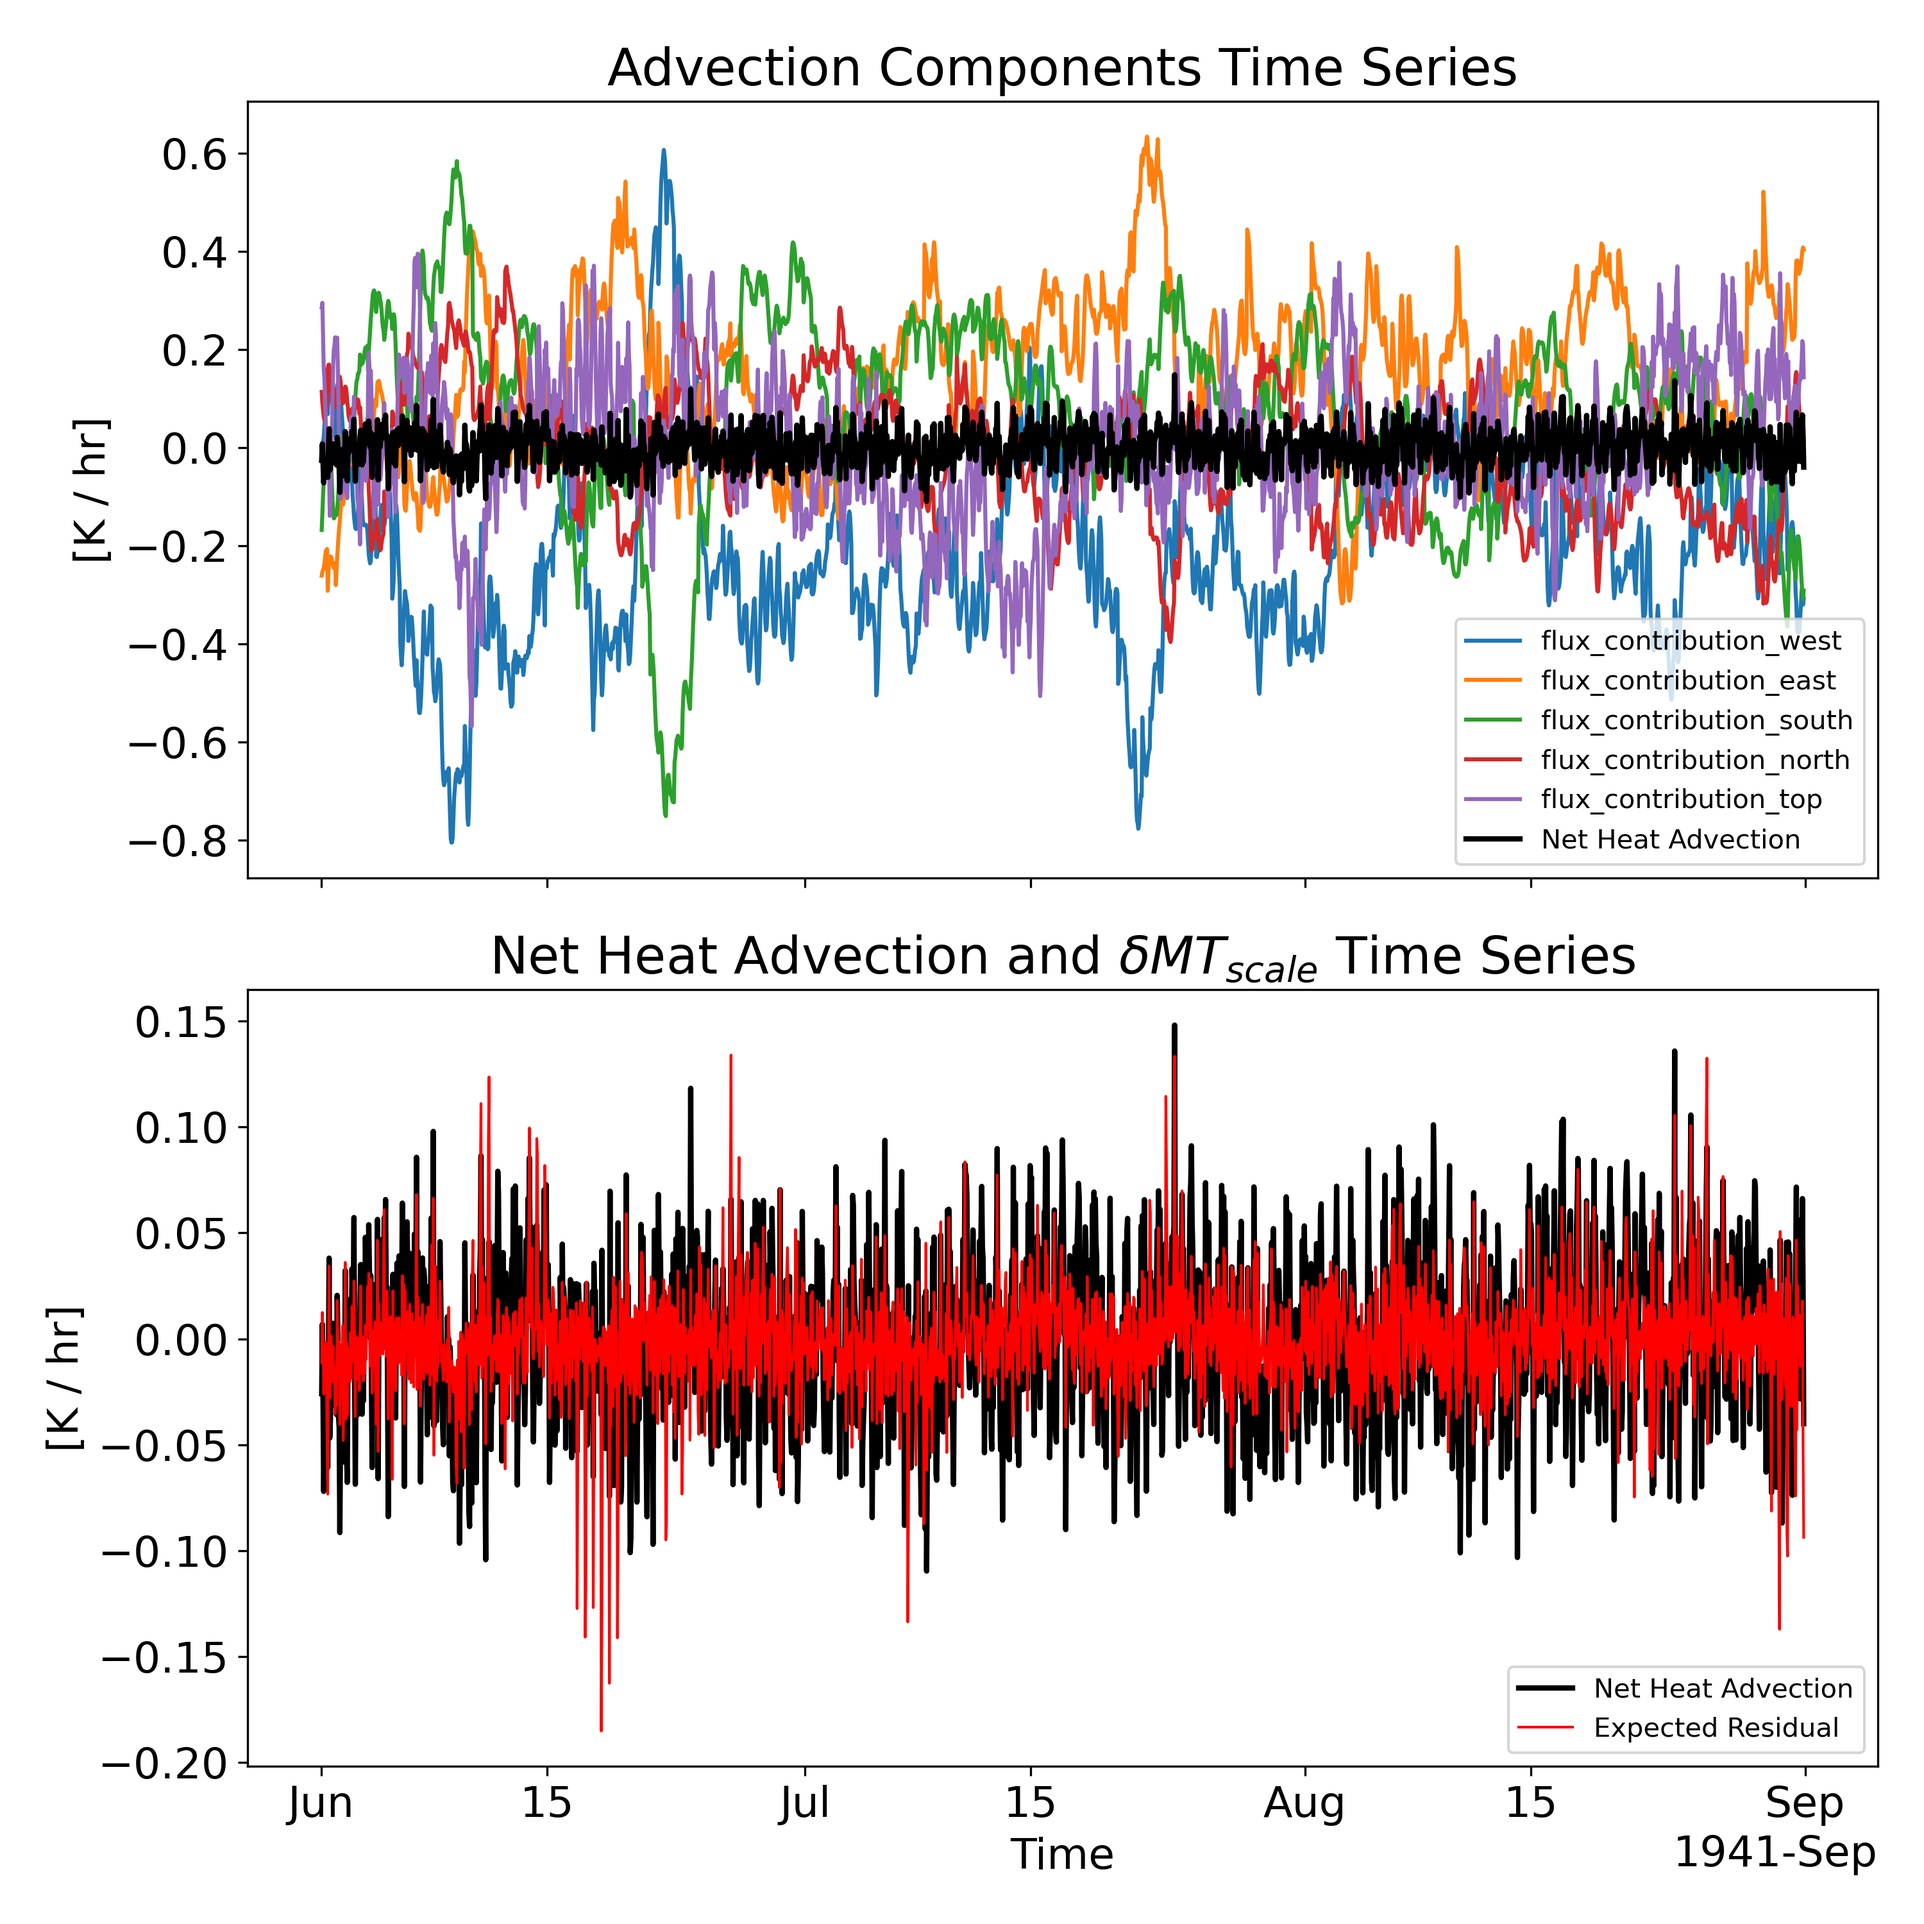
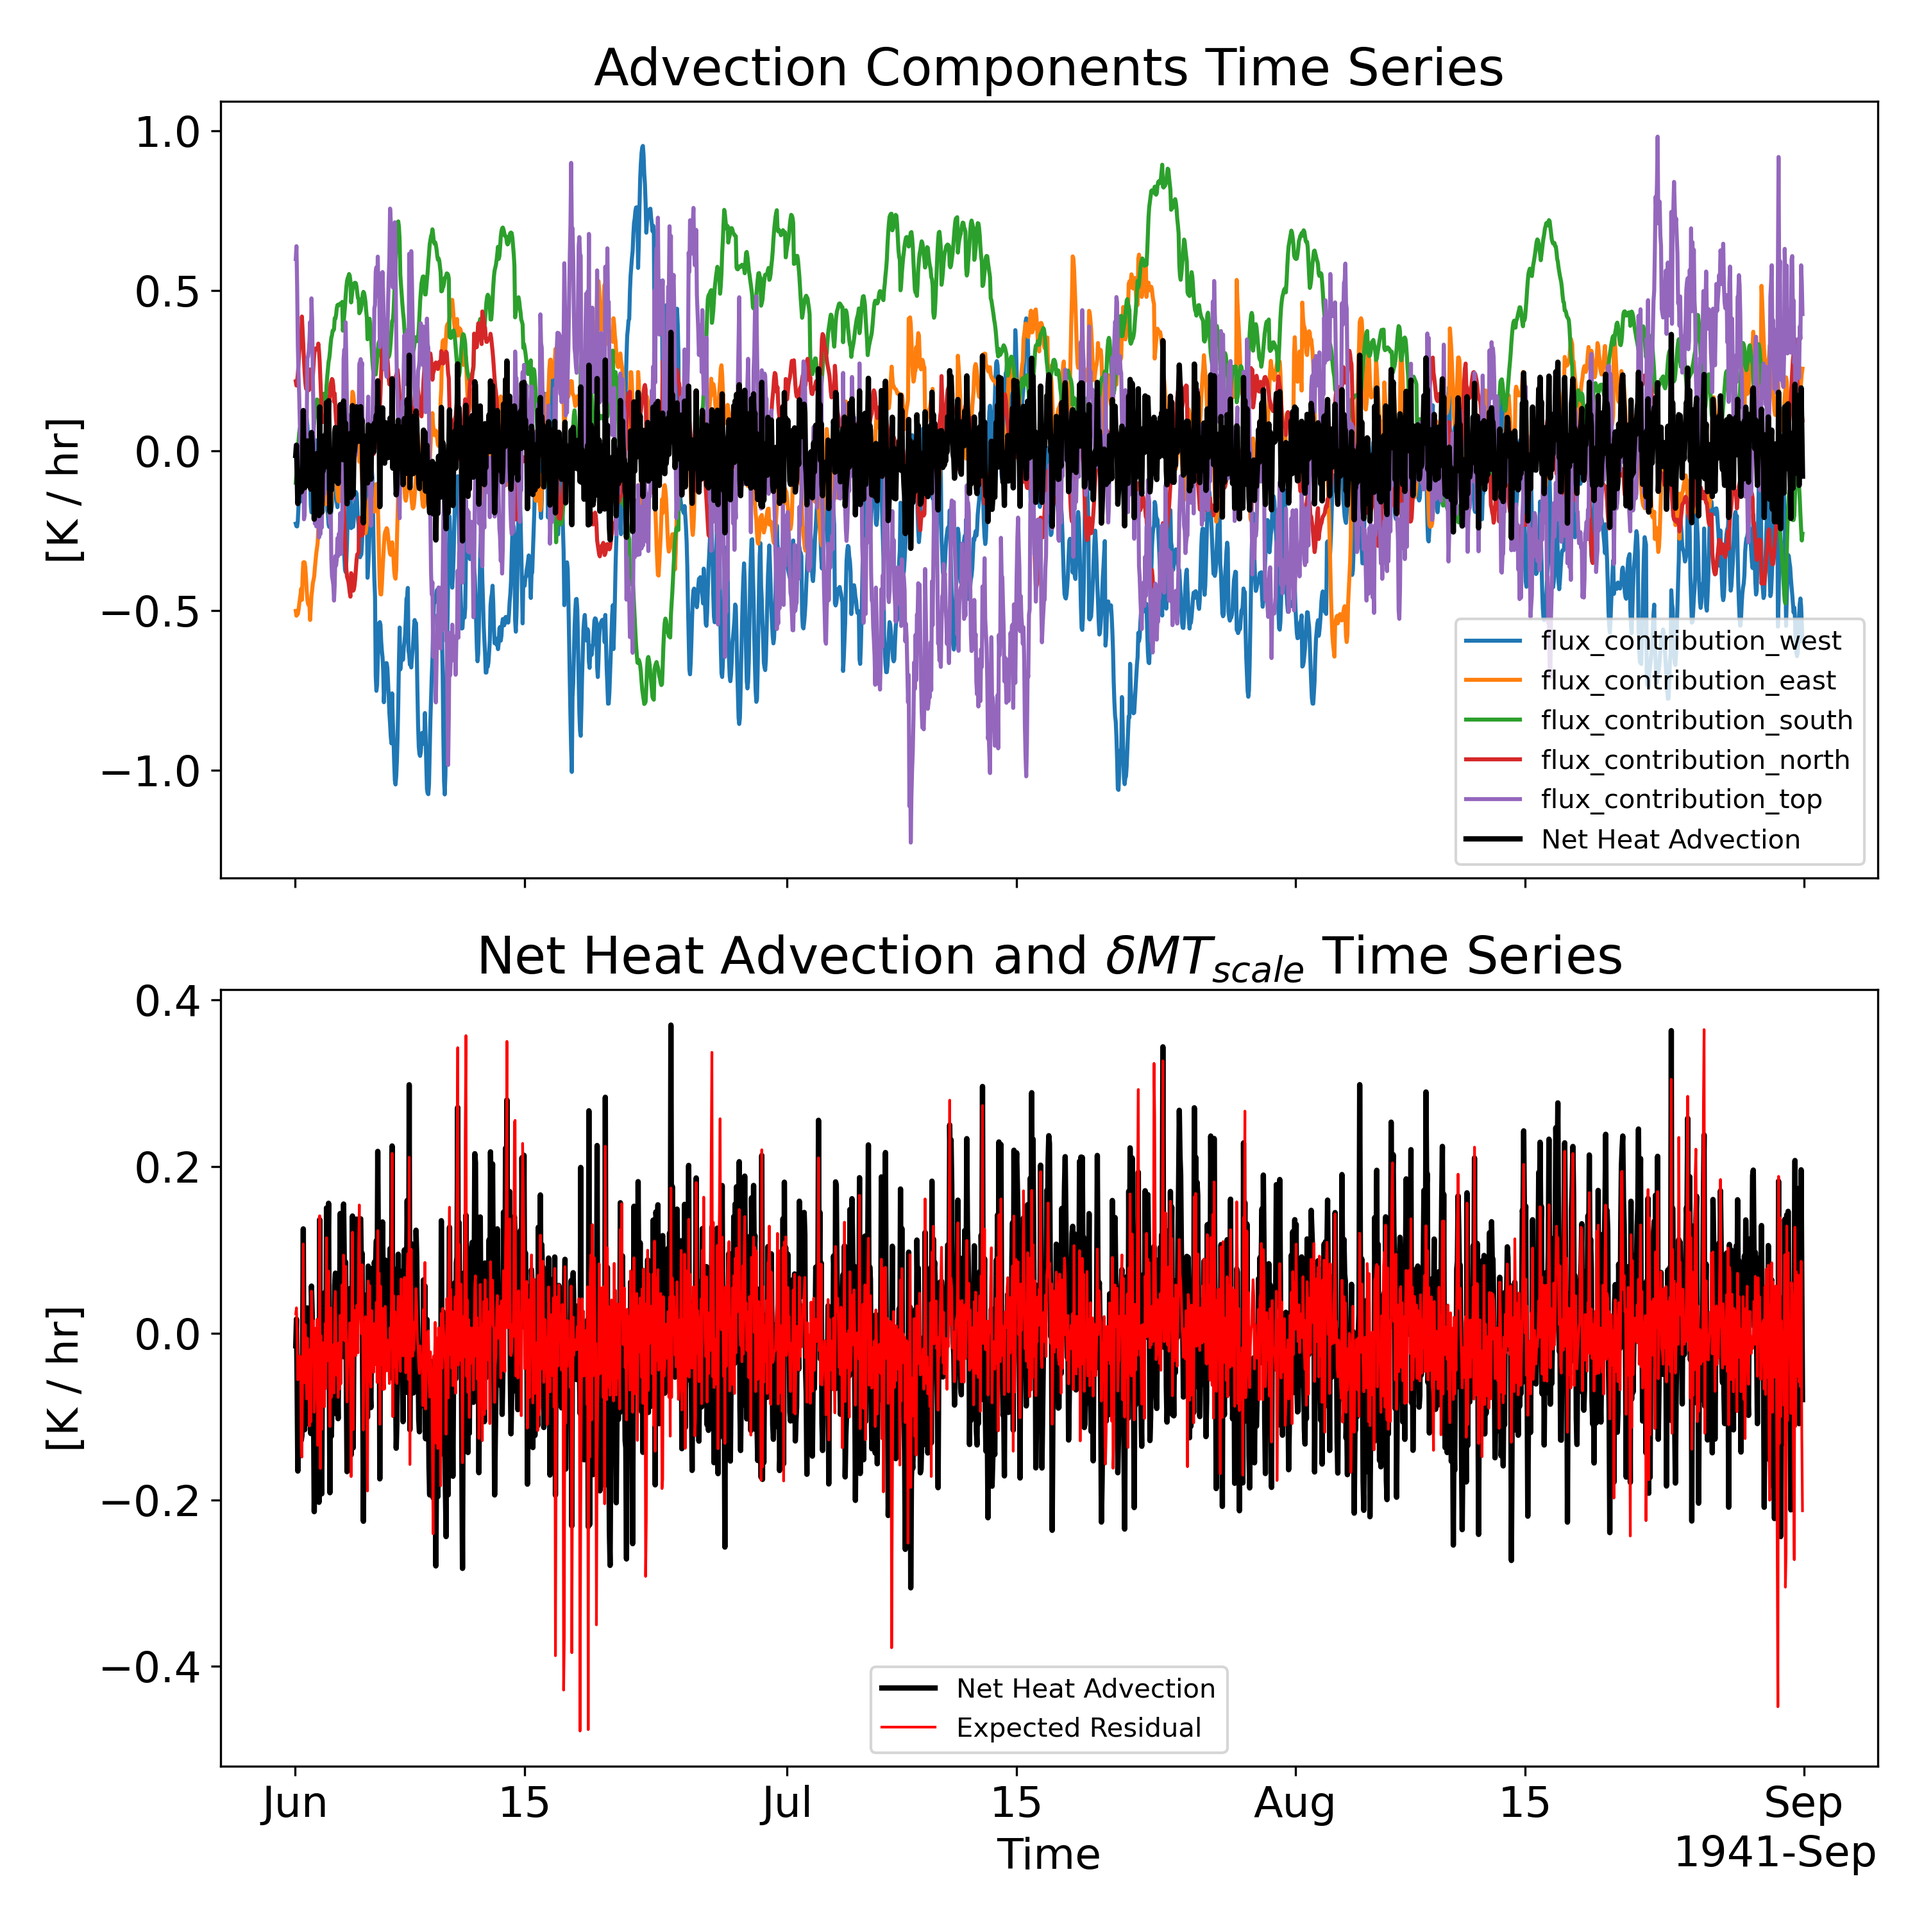
bfixed bug in tthe order of operations for binning data for daily bins/smoothing.

diff --git a/src/plot_results.py b/src/plot_results.py
@@ -59,10 +59,13 @@ plt.rcParams.update({'font.size': 16})
 
 def plot_budget_terms_hourly(ds_budget: xr.Dataset, smoothing_window: int, plot_dir: str) -> None:
 
+    norm_factor            = 1 / ds_budget["domain_volume"]
+    time_conversion_factor = 3600
+
     # raw hourly data
     domain_volume = ds_budget["domain_volume"].rolling(time=smoothing_window, center=True).mean().copy()  # smoothing to reduce noise, data is hourly
     T_domain_avg = ds_budget["T_domain_avg"].rolling(time=smoothing_window, center=True).mean().copy()  # smoothing to reduce noise, data is hourly
-    ds_budget = ds_budget.rolling(time=smoothing_window, center=True).mean() # smoothing to reduce noise, data is hourly
+    #ds_budget = ds_budget.rolling(time=smoothing_window, center=True).mean() # smoothing to reduce noise, data is hourly
     units = "[K/hr]"  # since we are averaging over 24 hours, the units are K/hr
 
     fig, ax = plt.subplots(
@@ -106,25 +109,25 @@ def plot_budget_terms_hourly(ds_budget: xr.Dataset, smoothing_window: int, plot_
         "diabatic_term": 1
     }
 
-    norm_factor            = 1 / domain_volume
-    time_conversion_factor = 3600
-
     dT_dt = ds_budget["dT_dt"] * norm_factor * time_conversion_factor  # convert to K/s by dividing by volume and multiplying by T scale (using domain average T as scale)
+    dT_dt = dT_dt.rolling(time=smoothing_window, center=True).mean() # smoothing to reduce noise, data is hourly
 
     dT_dt_2 = (term_signs["advection_term"] * ds_budget["advection_term"] + \
-             term_signs["adiabatic_term"] * ds_budget["adiabatic_term"] + \
-             term_signs["diabatic_term"] * ds_budget["diabatic_term"] ) * norm_factor * time_conversion_factor
+               term_signs["adiabatic_term"] * ds_budget["adiabatic_term"] + \
+               term_signs["diabatic_term"] * ds_budget["diabatic_term"] ) * norm_factor * time_conversion_factor
+    dT_dt_2 = dT_dt_2.rolling(time=smoothing_window, center=True).mean() # smoothing to reduce noise, data is hourly
+
 
     line_dT = dT_dt.plot.line(
         ax=ax[1],
         add_legend=False,
-        color='C1'
+        color='C3'
     )
 
     line_dT_2 = dT_dt_2.plot.line(
         ax=ax[1],
         add_legend=False,
-        color='C1',
+        color='C0',
         linestyle='--'
     )
 
@@ -149,6 +152,8 @@ def plot_budget_terms_hourly(ds_budget: xr.Dataset, smoothing_window: int, plot_
         ("diabatic_term", "Diabatic Term"),
     ]:
         term = term_signs[var] * ds_budget[var] * norm_factor * time_conversion_factor
+        term = term.rolling(time=smoothing_window, center=True).mean()
+
         line = term.plot.line(
             ax=ax[2],
             add_legend=False,
@@ -189,11 +194,13 @@ def plot_budget_terms_hourly(ds_budget: xr.Dataset, smoothing_window: int, plot_
 
 
 def plot_budget_terms_day_bin(ds_budget: xr.Dataset, plot_dir: str) -> None:
+    
+    norm_factor            = 1 / ds_budget["domain_volume"]
+    time_conversion_factor = 3600
 
     #alternative to smooth, sum over the rolling time window instead of averaging, to preserve the total budget over the window
-    domain_volume = ds_budget["domain_volume"].resample(time="1D").mean()  # sum over 24 hours, data is hourly
-    T_domain_avg  = ds_budget["T_domain_avg"].resample(time="1D").mean()  # sum over 24 hours, data is hourly
-    ds_budget = ds_budget.resample(time="1D").sum()
+    domain_volume = ds_budget["domain_volume"].resample(time="1D").mean()  
+    T_domain_avg  = ds_budget["T_domain_avg"].resample(time="1D").mean()  # mean over 24 hours, data is not a rate
     units = "[K/day]"  # since we are summing over 24 hours, the units  are K/day
     # not all terms within ds_budget are time-rate-of-change, so I need to apply the unit conversion from s->hr in the individual terms.
 
@@ -240,19 +247,18 @@ def plot_budget_terms_day_bin(ds_budget: xr.Dataset, plot_dir: str) -> None:
         "diabatic_term": 1
     }
 
-    norm_factor            = 1 / domain_volume
-    time_conversion_factor = 3600
-
     #storage term
-    ddt_TV = ds_budget["d_dt_T"] * norm_factor * time_conversion_factor  # convert to K/s by dividing by volume and multiplying by T scale (using domain average T as scale)
+    ddt_TV = ds_budget["d_dt_T"] * norm_factor * time_conversion_factor  # convert to K/hr by dividing by volume and multiplying by T scale (using domain average T as scale)
+    ddt_TV = ddt_TV.resample(time="1D").sum() # sum over 24 hours, data is hourly -> daily
 
     #change in internal energy from volume change
-
-    dT_from_dV = (T_domain_avg * norm_factor) * ds_budget['dV_dt'] * time_conversion_factor
+    dT_from_dV = (ds_budget["T_domain_avg"] * norm_factor) * ds_budget['dV_dt'] * time_conversion_factor
+    dT_from_dV = dT_from_dV.resample(time="1D").sum() # sum over 24 hours, data is hourly -> daily
 
     #change in average energy
     # d<T>/dt
-    dTT_dt = ddt_TV - dT_from_dV
+    dTT_dt = ds_budget["dT_dt"] * norm_factor * time_conversion_factor  # convert to K/hr by dividing by volume and multiplying by T scale (using domain average T as scale)
+    dTT_dt = dTT_dt.resample(time="1D").sum() # sum over 24 hours, data is hourly -> daily
 
     lines_dT = []
 
@@ -300,13 +306,13 @@ def plot_budget_terms_day_bin(ds_budget: xr.Dataset, plot_dir: str) -> None:
     if "advection_error" in ds_budget.data_vars:
         error_var = "advection_error"
 
-
     for var, label in [
         ("advection_term", "Net Heat Advection"),
         ("adiabatic_term", "Adiabatic Term"),
         ("diabatic_term", "Diabatic Term"),
     ]:
         term = term_signs[var] * ds_budget[var] * norm_factor * time_conversion_factor
+        term = term.resample(time="1D").sum() # sum over 24 hours, data is hourly -> daily
         line = term.plot.line(
             ax=ax[2],
             add_legend=False,

diff --git a/src/budget.py b/src/budget.py
@@ -64,13 +64,13 @@ def calculate_budget(ds_domain: xr.Dataset,
     domain_volume = terms.compute_domain_volume(ds_domain, ds_cell_volumes, ds_weights_volumes, DomainSpecs)
     dV_dt         = terms.compute_time_derivative(domain_volume)
 
-    
-
     #extra terms:
     #average T over the domain for each time step
     T_domain_avg = terms.compute_T_domain_average(ds_domain['T'], domain_volume, ds_cell_volumes, ds_weights_volumes, DomainSpecs)
-    dT_dt = (terms.compute_time_derivative(T_domain_avg)) * domain_volume
+    dT_dt = terms.compute_time_derivative(T_domain_avg) * domain_volume.sel(time=d_dt_T['time'])
+    
     T_domain_avg = T_domain_avg.sel(time=d_dt_T['time'])
+    dT_dt        = dT_dt.sel(time=d_dt_T['time'])
 
     dT_dt_2 = d_dt_T - T_domain_avg * dV_dt
 
@@ -133,7 +133,8 @@ def calculate_budget(ds_domain: xr.Dataset,
         adiabatic_term,
     )
 
-    domain_volume = domain_volume.sel(time=d_dt_T['time']) 
+    domain_volume = domain_volume.sel(time=d_dt_T['time'])
+    dV_dt = dV_dt.sel(time=d_dt_T['time'])
     #combine all terms into a single output dataset
     out = xr.Dataset({
         'd_dt_T': d_dt_T,

diff --git a/src/config.py b/src/config.py
@@ -33,6 +33,6 @@ DEFAULT_ALLOW_BOTTOM_OVERFLOW = False # allow bottom layer weights to exceed 1 i
 # pressure levels for geopotential height domain boundaries (in Pa)
 # zg_bottom_pressure only used if zg_bottom == "pressure_level"; else surface pressure determines bottom boundary
 DEFAULT_ZG_BOT_PA: float = 600 * 100 # lower boundary pressure for geopotential height budget in Pa
-DEFAULT_ZG_TOP_PA: float = 850 * 100 # upper boundary pressure for geopotential height budget in Pa
+DEFAULT_ZG_TOP_PA: float = 700 * 100 # upper boundary pressure for geopotential height budget in Pa
 
 DEFAULT_PLOTS_OUTPUT:str = "/home/mhpereir/eulerian_heat_budget/results/plots"
